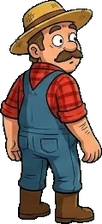
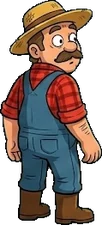
Give the farmer and the lookouts a second loop each, so they stop being stickers
Both had frames but only one of them animated, and only while Nugget was going
past; the rest of the time they held a single pose, which in a scrolling
background reads as a sticker rather than a character. They each get an idle
loop now, the way the livestock already had one: the farmer wipes his brow and
settles, the pigeons shuffle and preen, and both switch to their reaction cycle
when he is close.

Two things worth writing down.

The rage loop starts at frame 2. Frames 0 and 1 of that sheet are the calm and
the double-take, so looping the whole set reset him to placid in the middle of
the tantrum.

And ONE SCALE PER SHEET, taken from its first frame. Sizing every frame to the
same height was wrong and had been since the sheet was cut: it stretched the
doubled-over rage frame back up to full standing height, so the farmer got
TALLER the angrier he got. A crouch is supposed to be shorter than a stand.

The pigeons' near test is screen distance rather than world distance, because
the tower rides the parallax and its world x is not where it looks.

Claude-Session: https://claude.ai/code/session_0162W9EvYgYyPTq35LrBvfY3

diff --git a/index.html b/index.html
@@ -1114,7 +1114,7 @@ function cosmeticImage(id, slot, src, opt){
    swappable while frames are in use. If any image fails to load the
    procedural puppet draws instead - the character can never vanish.
    ============================================================ */
-const FRAME_DATA = {"cow":[{"f":"cow0.webp","w":89,"h":154,"ay":153.5},{"f":"cow1.webp","w":85,"h":146,"ay":152.0},{"f":"cow2.webp","w":84,"h":164,"ay":165.1},{"f":"cow3.webp","w":91,"h":163,"ay":164.0},{"f":"cow4.webp","w":92,"h":146,"ay":147.2},{"f":"cow5.webp","w":60,"h":146,"ay":147.2}],"cowrun":[{"f":"cowrun0.webp","w":118,"h":164,"ay":164.0},{"f":"cowrun1.webp","w":120,"h":164,"ay":165.8},{"f":"cowrun2.webp","w":128,"h":154,"ay":159.1},{"f":"cowrun3.webp","w":154,"h":152,"ay":156.6},{"f":"cowrun4.webp","w":157,"h":147,"ay":152.9},{"f":"cowrun5.webp","w":170,"h":158,"ay":164.0}],"pig":[{"f":"pig0.webp","w":98,"h":156,"ay":156.0},{"f":"pig1.webp","w":113,"h":155,"ay":156.0},{"f":"pig2.webp","w":90,"h":154,"ay":156.0},{"f":"pig3.webp","w":110,"h":156,"ay":156.0},{"f":"pig4.webp","w":89,"h":155,"ay":156.0},{"f":"pig5.webp","w":92,"h":155,"ay":156.0}],"pigrun":[{"f":"pigrun0.webp","w":105,"h":156,"ay":156.0},{"f":"pigrun1.webp","w":110,"h":150,"ay":152.3},{"f":"pigrun2.webp","w":91,"h":132,"ay":135.0},{"f":"pigrun3.webp","w":125,"h":133,"ay":133.1},{"f":"pigrun4.webp","w":96,"h":125,"ay":125.8},{"f":"pigrun5.webp","w":107,"h":137,"ay":136.8}],"goat":[{"f":"goat0.webp","w":92,"h":159,"ay":161.4},{"f":"goat1.webp","w":91,"h":159,"ay":161.4},{"f":"goat2.webp","w":81,"h":158,"ay":159.5},{"f":"goat3.webp","w":82,"h":160,"ay":160.0},{"f":"goat4.webp","w":89,"h":160,"ay":159.5},{"f":"goat5.webp","w":92,"h":158,"ay":161.0}],"goatrun":[{"f":"goatrun0.webp","w":94,"h":159,"ay":160.0},{"f":"goatrun1.webp","w":84,"h":160,"ay":160.0},{"f":"goatrun2.webp","w":118,"h":148,"ay":147.7},{"f":"goatrun3.webp","w":125,"h":145,"ay":149.3},{"f":"goatrun4.webp","w":132,"h":143,"ay":147.7},{"f":"goatrun5.webp","w":141,"h":144,"ay":147.7}],"run":[{"f":"run0.webp","w":206,"h":199,"ay":199},{"f":"run1.webp","w":138,"h":182,"ay":182},{"f":"run2.webp","w":136,"h":181,"ay":181},{"f":"run3.webp","w":187,"h":196,"ay":196},{"f":"run4.webp","w":140,"h":181,"ay":181},{"f":"run5.webp","w":179,"h":195,"ay":195}],"fly":[{"f":"fly0.webp","w":110,"h":161,"ay":162.3},{"f":"fly1.webp","w":112,"h":158,"ay":163.1},{"f":"fly2.webp","w":163,"h":210,"ay":191.6},{"f":"fly3.webp","w":147,"h":158,"ay":181.3},{"f":"fly4.webp","w":148,"h":186,"ay":187.3},{"f":"fly5.webp","w":130,"h":185,"ay":179.7}],"fall":[{"f":"fall0.webp","w":122,"h":187,"ay":184.0},{"f":"fall1.webp","w":145,"h":199,"ay":186.0},{"f":"fall2.webp","w":174,"h":210,"ay":179.8},{"f":"fall3.webp","w":143,"h":198,"ay":182.3}],"jump":[{"f":"jump0.webp","w":122,"h":148,"ay":171.0},{"f":"jump1.webp","w":140,"h":171,"ay":169.4},{"f":"jump2.webp","w":138,"h":221,"ay":193.2},{"f":"jump3.webp","w":183,"h":186,"ay":179.6},{"f":"jump4.webp","w":155,"h":186,"ay":180.3}],"land":[{"f":"land0.webp","w":145,"h":183,"ay":183},{"f":"land1.webp","w":157,"h":179,"ay":179},{"f":"land2.webp","w":122,"h":121,"ay":121},{"f":"land3.webp","w":165,"h":186,"ay":186}],"hit":[{"f":"hit0.webp","w":145,"h":164,"ay":172.9},{"f":"hit1.webp","w":163,"h":186,"ay":185.1},{"f":"hit2.webp","w":122,"h":154,"ay":173.6},{"f":"hit3.webp","w":106,"h":126,"ay":166.0},{"f":"hit4.webp","w":178,"h":81,"ay":140.5},{"f":"hit5.webp","w":128,"h":146,"ay":173.4}],"kick":[{"f":"kick0.webp","w":164,"h":239,"ay":239.0},{"f":"kick1.webp","w":162,"h":228,"ay":228.0},{"f":"kick2.webp","w":172,"h":172,"ay":179.4},{"f":"kick3.webp","w":132,"h":192,"ay":178.6},{"f":"kick4.webp","w":182,"h":194,"ay":194.0}],"boom":[{"f":"boom0.webp","w":121,"h":125},{"f":"boom1.webp","w":194,"h":215},{"f":"boom2.webp","w":260,"h":273},{"f":"boom3.webp","w":209,"h":215},{"f":"boom4.webp","w":170,"h":175}],"cricket":[{"f":"cricket0.webp","w":45,"h":136,"ay":136.0},{"f":"cricket1.webp","w":44,"h":143,"ay":143.0},{"f":"cricket2.webp","w":67,"h":127,"ay":127.0},{"f":"cricket3.webp","w":58,"h":129,"ay":129.0},{"f":"cricket4.webp","w":62,"h":121,"ay":121.0},{"f":"cricket5.webp","w":55,"h":107,"ay":107.0}],"egg":[{"f":"egg0.webp","w":47,"h":58,"ay":29.0},{"f":"egg1.webp","w":45,"h":58,"ay":29.0},{"f":"egg2.webp","w":43,"h":58,"ay":29.0},{"f":"egg3.webp","w":39,"h":58,"ay":29.0},{"f":"egg4.webp","w":22,"h":58,"ay":29.0},{"f":"egg5.webp","w":15,"h":55,"ay":27.5},{"f":"egg6.webp","w":39,"h":55,"ay":27.5},{"f":"egg7.webp","w":41,"h":55,"ay":27.5},{"f":"egg8.webp","w":42,"h":55,"ay":27.5},{"f":"egg9.webp","w":43,"h":55,"ay":27.5}],"hensad":[{"f":"hensad0.webp","w":92,"h":98,"ay":98.0},{"f":"hensad1.webp","w":95,"h":98,"ay":98.0},{"f":"hensad2.webp","w":98,"h":98,"ay":98.0},{"f":"hensad3.webp","w":93,"h":98,"ay":98.0},{"f":"hensad4.webp","w":83,"h":98,"ay":98.0}],"henjoy":[{"f":"henjoy0.webp","w":94,"h":98,"ay":98.0},{"f":"henjoy1.webp","w":80,"h":98,"ay":98.0},{"f":"henjoy2.webp","w":80,"h":98,"ay":98.0},{"f":"henjoy3.webp","w":80,"h":98,"ay":98.0}],"farmer":[{"f":"farmer0.webp","w":94,"h":224,"ay":224.0},{"f":"farmer1.webp","w":102,"h":224,"ay":224.0},{"f":"farmer2.webp","w":141,"h":224,"ay":224.0},{"f":"farmer3.webp","w":160,"h":224,"ay":224.0},{"f":"farmer4.webp","w":114,"h":224,"ay":224.0},{"f":"farmer5.webp","w":145,"h":224,"ay":224.0}],"spy":[{"f":"spy0.webp","w":62,"h":86,"ay":86.0},{"f":"spy1.webp","w":62,"h":86,"ay":86.0},{"f":"spy2.webp","w":62,"h":86,"ay":86.0},{"f":"spy3.webp","w":90,"h":86,"ay":86.0},{"f":"spy4.webp","w":63,"h":86,"ay":86.0},{"f":"spy5.webp","w":76,"h":86,"ay":86.0}]};
+const FRAME_DATA = {"cow":[{"f":"cow0.webp","w":89,"h":154,"ay":153.5},{"f":"cow1.webp","w":85,"h":146,"ay":152.0},{"f":"cow2.webp","w":84,"h":164,"ay":165.1},{"f":"cow3.webp","w":91,"h":163,"ay":164.0},{"f":"cow4.webp","w":92,"h":146,"ay":147.2},{"f":"cow5.webp","w":60,"h":146,"ay":147.2}],"cowrun":[{"f":"cowrun0.webp","w":118,"h":164,"ay":164.0},{"f":"cowrun1.webp","w":120,"h":164,"ay":165.8},{"f":"cowrun2.webp","w":128,"h":154,"ay":159.1},{"f":"cowrun3.webp","w":154,"h":152,"ay":156.6},{"f":"cowrun4.webp","w":157,"h":147,"ay":152.9},{"f":"cowrun5.webp","w":170,"h":158,"ay":164.0}],"pig":[{"f":"pig0.webp","w":98,"h":156,"ay":156.0},{"f":"pig1.webp","w":113,"h":155,"ay":156.0},{"f":"pig2.webp","w":90,"h":154,"ay":156.0},{"f":"pig3.webp","w":110,"h":156,"ay":156.0},{"f":"pig4.webp","w":89,"h":155,"ay":156.0},{"f":"pig5.webp","w":92,"h":155,"ay":156.0}],"pigrun":[{"f":"pigrun0.webp","w":105,"h":156,"ay":156.0},{"f":"pigrun1.webp","w":110,"h":150,"ay":152.3},{"f":"pigrun2.webp","w":91,"h":132,"ay":135.0},{"f":"pigrun3.webp","w":125,"h":133,"ay":133.1},{"f":"pigrun4.webp","w":96,"h":125,"ay":125.8},{"f":"pigrun5.webp","w":107,"h":137,"ay":136.8}],"goat":[{"f":"goat0.webp","w":92,"h":159,"ay":161.4},{"f":"goat1.webp","w":91,"h":159,"ay":161.4},{"f":"goat2.webp","w":81,"h":158,"ay":159.5},{"f":"goat3.webp","w":82,"h":160,"ay":160.0},{"f":"goat4.webp","w":89,"h":160,"ay":159.5},{"f":"goat5.webp","w":92,"h":158,"ay":161.0}],"goatrun":[{"f":"goatrun0.webp","w":94,"h":159,"ay":160.0},{"f":"goatrun1.webp","w":84,"h":160,"ay":160.0},{"f":"goatrun2.webp","w":118,"h":148,"ay":147.7},{"f":"goatrun3.webp","w":125,"h":145,"ay":149.3},{"f":"goatrun4.webp","w":132,"h":143,"ay":147.7},{"f":"goatrun5.webp","w":141,"h":144,"ay":147.7}],"run":[{"f":"run0.webp","w":206,"h":199,"ay":199},{"f":"run1.webp","w":138,"h":182,"ay":182},{"f":"run2.webp","w":136,"h":181,"ay":181},{"f":"run3.webp","w":187,"h":196,"ay":196},{"f":"run4.webp","w":140,"h":181,"ay":181},{"f":"run5.webp","w":179,"h":195,"ay":195}],"fly":[{"f":"fly0.webp","w":110,"h":161,"ay":162.3},{"f":"fly1.webp","w":112,"h":158,"ay":163.1},{"f":"fly2.webp","w":163,"h":210,"ay":191.6},{"f":"fly3.webp","w":147,"h":158,"ay":181.3},{"f":"fly4.webp","w":148,"h":186,"ay":187.3},{"f":"fly5.webp","w":130,"h":185,"ay":179.7}],"fall":[{"f":"fall0.webp","w":122,"h":187,"ay":184.0},{"f":"fall1.webp","w":145,"h":199,"ay":186.0},{"f":"fall2.webp","w":174,"h":210,"ay":179.8},{"f":"fall3.webp","w":143,"h":198,"ay":182.3}],"jump":[{"f":"jump0.webp","w":122,"h":148,"ay":171.0},{"f":"jump1.webp","w":140,"h":171,"ay":169.4},{"f":"jump2.webp","w":138,"h":221,"ay":193.2},{"f":"jump3.webp","w":183,"h":186,"ay":179.6},{"f":"jump4.webp","w":155,"h":186,"ay":180.3}],"land":[{"f":"land0.webp","w":145,"h":183,"ay":183},{"f":"land1.webp","w":157,"h":179,"ay":179},{"f":"land2.webp","w":122,"h":121,"ay":121},{"f":"land3.webp","w":165,"h":186,"ay":186}],"hit":[{"f":"hit0.webp","w":145,"h":164,"ay":172.9},{"f":"hit1.webp","w":163,"h":186,"ay":185.1},{"f":"hit2.webp","w":122,"h":154,"ay":173.6},{"f":"hit3.webp","w":106,"h":126,"ay":166.0},{"f":"hit4.webp","w":178,"h":81,"ay":140.5},{"f":"hit5.webp","w":128,"h":146,"ay":173.4}],"kick":[{"f":"kick0.webp","w":164,"h":239,"ay":239.0},{"f":"kick1.webp","w":162,"h":228,"ay":228.0},{"f":"kick2.webp","w":172,"h":172,"ay":179.4},{"f":"kick3.webp","w":132,"h":192,"ay":178.6},{"f":"kick4.webp","w":182,"h":194,"ay":194.0}],"boom":[{"f":"boom0.webp","w":121,"h":125},{"f":"boom1.webp","w":194,"h":215},{"f":"boom2.webp","w":260,"h":273},{"f":"boom3.webp","w":209,"h":215},{"f":"boom4.webp","w":170,"h":175}],"cricket":[{"f":"cricket0.webp","w":45,"h":136,"ay":136.0},{"f":"cricket1.webp","w":44,"h":143,"ay":143.0},{"f":"cricket2.webp","w":67,"h":127,"ay":127.0},{"f":"cricket3.webp","w":58,"h":129,"ay":129.0},{"f":"cricket4.webp","w":62,"h":121,"ay":121.0},{"f":"cricket5.webp","w":55,"h":107,"ay":107.0}],"egg":[{"f":"egg0.webp","w":47,"h":58,"ay":29.0},{"f":"egg1.webp","w":45,"h":58,"ay":29.0},{"f":"egg2.webp","w":43,"h":58,"ay":29.0},{"f":"egg3.webp","w":39,"h":58,"ay":29.0},{"f":"egg4.webp","w":22,"h":58,"ay":29.0},{"f":"egg5.webp","w":15,"h":55,"ay":27.5},{"f":"egg6.webp","w":39,"h":55,"ay":27.5},{"f":"egg7.webp","w":41,"h":55,"ay":27.5},{"f":"egg8.webp","w":42,"h":55,"ay":27.5},{"f":"egg9.webp","w":43,"h":55,"ay":27.5}],"hensad":[{"f":"hensad0.webp","w":92,"h":98,"ay":98.0},{"f":"hensad1.webp","w":95,"h":98,"ay":98.0},{"f":"hensad2.webp","w":98,"h":98,"ay":98.0},{"f":"hensad3.webp","w":93,"h":98,"ay":98.0},{"f":"hensad4.webp","w":83,"h":98,"ay":98.0}],"henjoy":[{"f":"henjoy0.webp","w":94,"h":98,"ay":98.0},{"f":"henjoy1.webp","w":80,"h":98,"ay":98.0},{"f":"henjoy2.webp","w":80,"h":98,"ay":98.0},{"f":"henjoy3.webp","w":80,"h":98,"ay":98.0}],"farmer":[{"f":"farmer0.webp","w":94,"h":224,"ay":224.0},{"f":"farmer1.webp","w":102,"h":225,"ay":225.0},{"f":"farmer2.webp","w":141,"h":224,"ay":224.0},{"f":"farmer3.webp","w":155,"h":218,"ay":218.0},{"f":"farmer4.webp","w":129,"h":252,"ay":252.0},{"f":"farmer5.webp","w":122,"h":189,"ay":189.0}],"spy":[{"f":"spy0.webp","w":62,"h":86,"ay":86.0},{"f":"spy1.webp","w":62,"h":86,"ay":86.0},{"f":"spy2.webp","w":62,"h":86,"ay":86.0},{"f":"spy3.webp","w":85,"h":82,"ay":82.0},{"f":"spy4.webp","w":63,"h":86,"ay":86.0},{"f":"spy5.webp","w":76,"h":86,"ay":86.0}],"farmeridle":[{"f":"farmeridle0.webp","w":93,"h":224,"ay":224.0},{"f":"farmeridle1.webp","w":113,"h":224,"ay":224.0},{"f":"farmeridle2.webp","w":127,"h":222,"ay":222.0},{"f":"farmeridle3.webp","w":120,"h":224,"ay":224.0},{"f":"farmeridle4.webp","w":98,"h":222,"ay":222.0},{"f":"farmeridle5.webp","w":92,"h":224,"ay":224.0}],"spyalert":[{"f":"spyalert0.webp","w":62,"h":86,"ay":86.0},{"f":"spyalert1.webp","w":62,"h":86,"ay":86.0},{"f":"spyalert2.webp","w":62,"h":86,"ay":86.0},{"f":"spyalert3.webp","w":79,"h":86,"ay":86.0},{"f":"spyalert4.webp","w":63,"h":86,"ay":86.0},{"f":"spyalert5.webp","w":62,"h":85,"ay":85.0}]};
 const FR = { ready:false, n:0, need:0, img:{} };
 const SPR = 175/190;                       // world units per frame pixel
 /* The roadside animals are scenery. They are loaded like everything else but
@@ -3309,15 +3309,22 @@ function farmGeom(){
    why they are in here rather than in the props pass. */
 const SPY = { x0:0.170, x1:0.258, y:0.400, panel:2, h:0.075 };
 function drawSpyPigeons(x, q){
-  const list = FRAME_DATA.spy; if(!list || !list.length) return;
   const y = q.top + SPY.y*q.H;
+  const px = player.x - cam.x;                       // where he is on screen
   for(let i=0;i<3;i++){
     const fx = SPY.x0 + (SPY.x1-SPY.x0)*(i/2);
-    // barely animated on purpose: a lookout that fidgets is not cool
-    const fr = list[Math.floor(game.t*0.7 + i*3.3) % list.length];
+    const bx = x + fx*q.W;
+    /* Two loops. Idle they shuffle and preen slowly; once he is close they run
+       the alert cycle -- head up, wing to the earpiece, talking into it. The
+       test is screen distance rather than world distance because the tower
+       rides the parallax, so its world x is not where it looks. */
+    const near = game.mode === 'play' && Math.abs(bx - px) < 620;
+    const list = FRAME_DATA[near && FRAME_DATA.spyalert ? 'spyalert' : 'spy'];
+    if(!list || !list.length) continue;
+    const fr = list[Math.floor(game.t*(near ? 9 : 2.6) + i*2.7) % list.length];
     const im = FR.img[fr.f]; if(!im || !im.complete || !im.naturalWidth) continue;
     const h = SPY.h*q.H, w = h*(fr.w/fr.h);
-    ctx.drawImage(im, x + fx*q.W - w*0.5, y - h, w, h);
+    ctx.drawImage(im, bx - w*0.5, y - h, w, h);
   }
 }
 function drawFarmPainted(){
@@ -3486,11 +3493,17 @@ function drawFarmer(){
     const near = game.mode === 'play' && dx > -430 && dx < 900;
     const ph = hash(i*2.7)*TAU;
     const bob = near ? -Math.abs(Math.sin(game.t*7 + ph))*8 : Math.sin(game.t*1.4 + ph)*2;
+    /* Two loops, like the livestock have: he wipes his brow and settles when
+       nothing is happening, and runs the rage cycle when a chicken goes past.
+       The rage set's first two frames are the calm and the double-take, so the
+       loop starts at 2 -- otherwise he keeps resetting to placid mid-tantrum. */
+    const idle = FRAME_DATA.farmeridle && FRAME_DATA.farmeridle.length;
+    const set = near || !idle ? 'farmer' : 'farmeridle';
     const pose = near ? 2 + (Math.floor(game.t*8 + i) % 4)
-                      : (hash(i*5.1) > 0.5 ? 1 : 0);
+                      : Math.floor(game.t*5 + ph*2) % FRAME_DATA.farmeridle.length;
     // behind the fence and a good head taller than the bird, so he is drawn
     // smaller than his own art and stood a little back from the road
-    drawNPC('farmer', pose, sx, GROUND-30+bob, 0.60, false);
+    drawNPC(set, pose, sx, GROUND-30+bob, 0.60, false);
   }
 }
 function drawProps(){

diff --git a/_CONTINUE-HERE.md b/_CONTINUE-HERE.md
@@ -662,18 +662,31 @@ semitone per egg in a streak. `game.eggBank` persists in `localStorage` under
 
 ## NPCs
 
-**The farmer** (`drawFarmer`, `FRAME_DATA.farmer`) owns the place and Nugget has
-just left it: six frames of escalating rage -- noticing, fists up, pointing, hat
-off, doubled over -- played only while a chicken is going past, and standing
-about the rest of the time. He gets his OWN pass at his own spacing rather than
-joining the livestock, because one farmer reads as a man and three in a row
-reads as a bug, while the animals want to come in groups.
+**Every background NPC has TWO six-frame loops**, an idle and a reaction, the
+way the livestock do -- a background character that holds one pose reads as a
+sticker, not a character.
 
-**The lookouts** (`drawSpyPigeons`, `SPY`, `FRAME_DATA.spy`) are three pigeons in
-sunglasses on the watchtower's balcony rail. The tower is painted into panel C,
-so they are drawn per panel at fractions measured off that image and ride with it
-wherever it repeats -- which is why they live in `drawFarmPainted` and not in the
-props pass. They barely animate on purpose: a lookout that fidgets is not cool.
+**The farmer** (`drawFarmer`) owns the place and Nugget has just left it.
+`farmeridle` is him wiping his brow and settling; `farmer` is six frames of
+escalating rage -- noticing, fists up, pointing, hat off, doubled over -- run
+only while a chicken is going past. The rage loop starts at frame **2**, because
+frames 0 and 1 are the calm and the double-take and looping through them resets
+him to placid mid-tantrum. He gets his OWN pass at his own spacing rather than
+joining the livestock: one farmer reads as a man, three in a row reads as a bug,
+and the animals want to come in groups.
+
+**The lookouts** (`drawSpyPigeons`, `SPY`) are three pigeons in sunglasses on the
+watchtower's balcony rail. `spy` is a slow shuffle; `spyalert` is head up, wing
+to the earpiece, talking into it. The near test is **screen** distance, not world
+distance, because the tower rides the parallax and its world x is not where it
+looks. The tower is painted into panel C, so they are drawn per panel at
+fractions measured off that image and ride with it wherever it repeats -- which
+is why they live in `drawFarmPainted` and not in the props pass.
+
+**One scale per sheet, taken from its first frame.** Normalising every frame to
+the same height stretched the doubled-over rage frame back up to full standing
+height, so the farmer got TALLER the angrier he got. A crouch has to be shorter
+than a stand, and only a per-sheet scale keeps that.
 
 
 Cricket guards in suits, `cricket0..5`, a six-frame panic loop with the antennae
